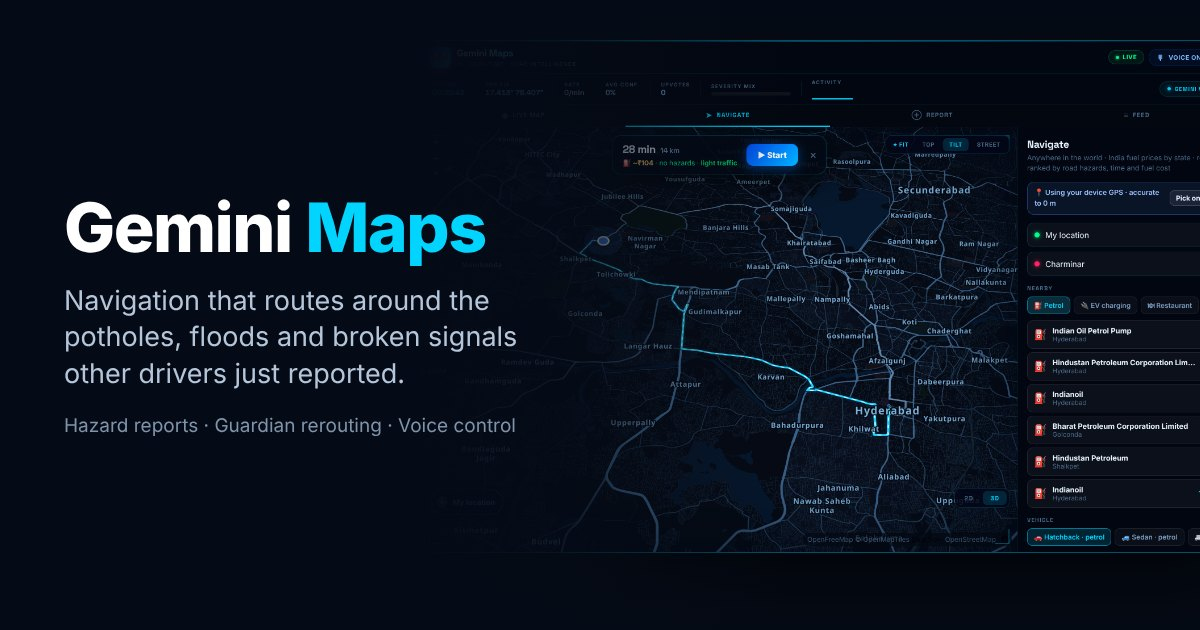
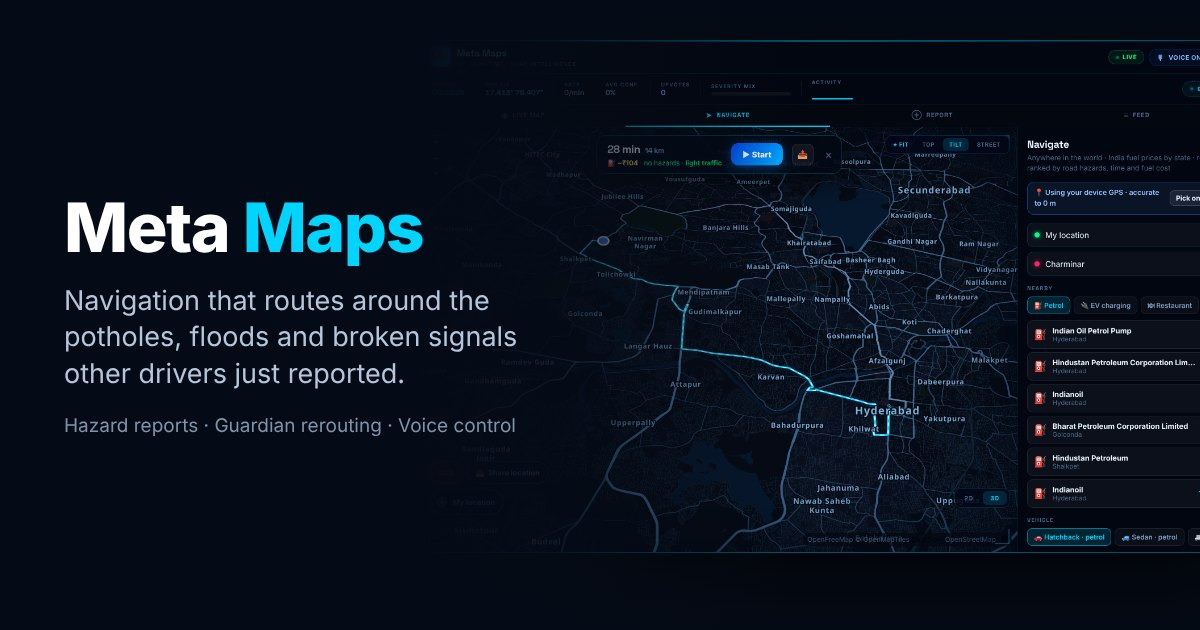
Rename the project to Meta Maps
- App name, page titles, manifest, share card, About panel, privacy policy and README.
- Site path is now /meta-maps/ (repository renamed); share links follow the site's own address.
- Route tag "Gemini pick" is now "Best pick"; Gemini remains only as the name of the fallback model.
- Independence note: not made by or endorsed by Meta Platforms, Inc.
- Backend URL stays gemini-maps-api.onrender.com (Render service addresses cannot be renamed).

Claude-Session: https://claude.ai/code/session_01KKk8jLsp7yVgJvBqSFSbTD

Changed region(s): [[0.0617, 0.3016, 0.4008, 0.4222], [0.4933, 0.2111, 0.7092, 0.2714], [0.9558, 0.1206, 1.0, 0.1508]]

diff --git a/frontend/public/privacy.html b/frontend/public/privacy.html
@@ -1,11 +1,11 @@
-<!doctype html><html lang="en"><head><meta charset="utf-8"><meta name="viewport" content="width=device-width,initial-scale=1"><title>Gemini Maps — Privacy Policy</title>
+<!doctype html><html lang="en"><head><meta charset="utf-8"><meta name="viewport" content="width=device-width,initial-scale=1"><title>Meta Maps — Privacy Policy</title>
 <style>body{font:16px/1.6 system-ui,sans-serif;max-width:720px;margin:40px auto;padding:0 18px;color:#14202b}h1{font-size:28px}h2{margin-top:28px;font-size:19px}</style></head><body>
-<h1>Gemini Maps — Privacy Policy</h1><p>Last updated: 29 October 2026</p>
-<p>Gemini Maps is a hazard-aware navigation app built for the Meta Global AI Developer Hackathon. This policy explains what it does with your data.</p>
+<h1>Meta Maps — Privacy Policy</h1><p>Last updated: 29 October 2026</p>
+<p>Meta Maps is a hazard-aware navigation app built for the Meta Global AI Developer Hackathon. It is an independent project, not made by or endorsed by Meta Platforms, Inc. This policy explains what it does with your data.</p>
 <h2>Location</h2><p>If you allow location access, your position is used on your device to show you on the map, to follow a drive, and to match your speed to the road's limit. It is not sent to our servers and not stored. To plan a route, the start and end coordinates are sent to the public OSRM routing service; place searches are sent to the Photon geocoder (Komoot). Those services receive only the coordinates or search text needed for the request.</p>
-<h2>Microphone and voice</h2><p>Voice control uses your browser's or device's speech recognition. Audio is processed by that speech service (for example Google or Apple); Gemini Maps does not record or keep audio. You can switch voice off at any time.</p>
-<h2>Camera and hazard reports</h2><p>When you report a hazard, the photo you take and its location are sent to the Gemini Maps backend. The backend sends the photo to Meta Model API (Muse Spark to classify it, SAM 3.1 to locate the hazard in it); if Meta's service is unavailable, it is sent to Google's Gemini API instead. Those providers process the photo under their own terms, and Meta may use content sent with free hackathon credits to improve its products. The hazard type, severity, description and location are then shown to other drivers; the photo itself is not stored by Gemini Maps. Do not photograph people or number plates. Reports can be removed on request.</p>
-<h2>Weather and sharing</h2><p>To check rain on your route, two points on the route (rounded to about 1 km) are sent to the Gemini Maps backend, which asks Open-Meteo or MET Norway for the forecast. When you share your location, arrival time or a place, the link is passed to the app you pick (for example WhatsApp); Gemini Maps does not keep it.</p><h2>Data kept on your device</h2><p>The app stores small preferences (chosen vehicle, a cache of state names for fuel prices, and map tiles) in your device's local storage. You can clear them by clearing site data.</p>
+<h2>Microphone and voice</h2><p>Voice control uses your browser's or device's speech recognition. Audio is processed by that speech service (for example Google or Apple); Meta Maps does not record or keep audio. You can switch voice off at any time.</p>
+<h2>Camera and hazard reports</h2><p>When you report a hazard, the photo you take and its location are sent to the Meta Maps backend. The backend sends the photo to Meta Model API (Muse Spark to classify it, SAM 3.1 to locate the hazard in it); if Meta's service is unavailable, it is sent to Google's Gemini API instead. Those providers process the photo under their own terms, and Meta may use content sent with free hackathon credits to improve its products. The hazard type, severity, description and location are then shown to other drivers; the photo itself is not stored by Meta Maps. Do not photograph people or number plates. Reports can be removed on request.</p>
+<h2>Weather and sharing</h2><p>To check rain on your route, two points on the route (rounded to about 1 km) are sent to the Meta Maps backend, which asks Open-Meteo or MET Norway for the forecast. When you share your location, arrival time or a place, the link is passed to the app you pick (for example WhatsApp); Meta Maps does not keep it.</p><h2>Data kept on your device</h2><p>The app stores small preferences (chosen vehicle, a cache of state names for fuel prices, and map tiles) in your device's local storage. You can clear them by clearing site data.</p>
 <h2>What we do not do</h2><p>We do not sell data, show ads, or build advertising profiles. We do not require an account.</p>
 <h2>Children</h2><p>The app is not directed at children under 13.</p>
 <h2>Contact</h2><p>Questions or removal requests: deekshith.k.090325@gmail.com</p>

diff --git a/frontend/index.html b/frontend/index.html
@@ -2,32 +2,32 @@
 <html lang="en">
   <head>
     <meta charset="UTF-8" />
-    <link rel="icon" type="image/svg+xml" href="/gemini-maps/favicon.svg" />
-    <link rel="apple-touch-icon" href="/gemini-maps/apple-touch-icon.png" />
-    <link rel="manifest" href="/gemini-maps/manifest.webmanifest" />
+    <link rel="icon" type="image/svg+xml" href="/meta-maps/favicon.svg" />
+    <link rel="apple-touch-icon" href="/meta-maps/apple-touch-icon.png" />
+    <link rel="manifest" href="/meta-maps/manifest.webmanifest" />
     <meta name="viewport" content="width=device-width, initial-scale=1.0, viewport-fit=cover, user-scalable=no" />
     <meta name="theme-color" content="#050b18" />
     <meta name="mobile-web-app-capable" content="yes" />
     <meta name="apple-mobile-web-app-capable" content="yes" />
-    <meta name="apple-mobile-web-app-title" content="Gemini Maps" />
+    <meta name="apple-mobile-web-app-title" content="Meta Maps" />
     <meta name="apple-mobile-web-app-status-bar-style" content="black-translucent" />
     <meta name="format-detection" content="telephone=no" />
     <meta name="description" content="Road-condition-aware navigation for India: crowdsourced hazards, vehicle-aware routing, fuel cost by state, and a Guardian agent that reroutes you mid-drive." />
-    <title>Gemini Maps — AI Road Hazard Reporter</title>
-    <link rel="canonical" href="https://vedhrishi.github.io/gemini-maps/" />
+    <title>Meta Maps — AI Road Hazard Reporter</title>
+    <link rel="canonical" href="https://vedhrishi.github.io/meta-maps/" />
     <meta property="og:type" content="website" />
-    <meta property="og:site_name" content="Gemini Maps" />
-    <meta property="og:title" content="Gemini Maps — navigation that routes around reported road hazards" />
+    <meta property="og:site_name" content="Meta Maps" />
+    <meta property="og:title" content="Meta Maps — navigation that routes around reported road hazards" />
     <meta property="og:description" content="Drivers report potholes, floods and broken signals with one photo. AI classifies them, every route avoids them, and a Guardian agent reroutes you mid-drive. Voice controlled." />
-    <meta property="og:url" content="https://vedhrishi.github.io/gemini-maps/" />
-    <meta property="og:image" content="https://vedhrishi.github.io/gemini-maps/og.jpg" />
+    <meta property="og:url" content="https://vedhrishi.github.io/meta-maps/" />
+    <meta property="og:image" content="https://vedhrishi.github.io/meta-maps/og.jpg" />
     <meta property="og:image:width" content="1200" />
     <meta property="og:image:height" content="630" />
-    <meta property="og:image:alt" content="Gemini Maps showing a route across Hyderabad and the nearest petrol pumps" />
+    <meta property="og:image:alt" content="Meta Maps showing a route across Hyderabad and the nearest petrol pumps" />
     <meta name="twitter:card" content="summary_large_image" />
-    <meta name="twitter:title" content="Gemini Maps — navigation that routes around reported road hazards" />
+    <meta name="twitter:title" content="Meta Maps — navigation that routes around reported road hazards" />
     <meta name="twitter:description" content="One photo reports a pothole. AI classifies it, every route avoids it, and a Guardian agent reroutes you mid-drive." />
-    <meta name="twitter:image" content="https://vedhrishi.github.io/gemini-maps/og.jpg" />
+    <meta name="twitter:image" content="https://vedhrishi.github.io/meta-maps/og.jpg" />
     <link rel="preconnect" href="https://fonts.googleapis.com" />
     <link rel="preconnect" href="https://fonts.gstatic.com" crossorigin />
     <link rel="preconnect" href="https://tiles.openfreemap.org" crossorigin />

diff --git a/frontend/src/components/NavPanel.tsx b/frontend/src/components/NavPanel.tsx
@@ -204,7 +204,7 @@ export function NavPanel({ nav, userPos, locStatus, onRequestLocation, onStartLi
         }}>
           📍 {locStatus === 'denied'
             ? 'Location is blocked. Allow it in your browser settings, then tap here.'
-            : locStatus === 'locating' ? 'Finding your location…' : 'Turn on location so Gemini Maps can navigate from where you are'}
+            : locStatus === 'locating' ? 'Finding your location…' : 'Turn on location so Meta Maps can navigate from where you are'}
         </button>
       )}
 
@@ -323,7 +323,7 @@ export function NavPanel({ nav, userPos, locStatus, onRequestLocation, onStartLi
             background: 'rgba(0,212,255,.05)', border: '1px solid rgba(0,212,255,.12)', color: 'var(--text2)',
           }}>
             Every route is checked against crowd-reported hazards. If a slightly longer road
-            avoids a critical pothole or a flooded stretch, <b style={{ color: 'var(--accent)' }}>Gemini picks it</b>.
+            avoids a critical pothole or a flooded stretch, <b style={{ color: 'var(--accent)' }}>Meta Maps picks it</b>.
           </div>
         </div>
       )}
@@ -372,8 +372,8 @@ export function NavPanel({ nav, userPos, locStatus, onRequestLocation, onStartLi
                       <span key={t} style={{
                         fontSize: 10, fontWeight: 800, letterSpacing: '.06em', textTransform: 'uppercase',
                         padding: '2px 8px', borderRadius: 6,
-                        background: t === 'Gemini pick' ? 'rgba(0,212,255,.16)' : 'rgba(255,255,255,.07)',
-                        color: t === 'Gemini pick' ? 'var(--accent)' : 'var(--text2)',
+                        background: t === 'Best pick' ? 'rgba(0,212,255,.16)' : 'rgba(255,255,255,.07)',
+                        color: t === 'Best pick' ? 'var(--accent)' : 'var(--text2)',
                       }}>{t}</span>
                     ))}
                   </div>

diff --git a/frontend/src/hooks/useNavigation.ts b/frontend/src/hooks/useNavigation.ts
@@ -124,10 +124,10 @@ export function useNavigation({ reports, toast, speak }: Deps) {
     if (base.length > 1 && Math.abs(base[cheapest].fuel.cost - Math.max(...base.map(o => o.fuel.cost))) > 5) {
       base[cheapest].tags.push('Lowest fuel')
     }
-    // Gemini pick: every hazard point costs two minutes
+    // Best pick: every hazard point costs two minutes
     const pick = base.reduce(
       (b, o, i) => (o.route.duration + o.score * 120 < base[b].route.duration + base[b].score * 120 ? i : b), 0)
-    base[pick].tags.unshift('Gemini pick')
+    base[pick].tags.unshift('Best pick')
     return base
   }, [routes, routeStates, reports, vehicle, vehicleId])
 
@@ -148,7 +148,7 @@ export function useNavigation({ reports, toast, speak }: Deps) {
       setRoutes(rs)
       setPlanId(token)
       setRouteStates(rs.map(() => null))
-      // Gemini's pick becomes the default selection once hazards are known
+      // The best pick becomes the default selection once hazards are known
       setStatus('ready')
       // State lookups for fuel pricing, one route at a time (gentle on the public geocoder)
       for (let i = 0; i < rs.length; i++) {
@@ -169,7 +169,7 @@ export function useNavigation({ reports, toast, speak }: Deps) {
   const userChose = useRef(false)
   useEffect(() => {
     if (status !== 'ready' || userChose.current || options.length === 0) return
-    const pickIdx = options.findIndex(o => o.tags.includes('Gemini pick'))
+    const pickIdx = options.findIndex(o => o.tags.includes('Best pick'))
     if (pickIdx >= 0 && pickIdx !== selected) setSelected(pickIdx)
   }, [options, status, selected])
   useEffect(() => { if (status === 'planning') userChose.current = false }, [status])

diff --git a/frontend/src/components/AboutSheet.tsx b/frontend/src/components/AboutSheet.tsx
@@ -15,7 +15,7 @@ type Health = {
   supabase?: boolean
 }
 
-const REPO = 'https://github.com/Vedhrishi/gemini-maps'
+const REPO = 'https://github.com/Vedhrishi/meta-maps'
 
 const SHORTCUTS: [string, string][] = [
   ['R', 'Report a hazard'],
@@ -97,7 +97,7 @@ export function AboutSheet({ onClose, isDesktop }: { onClose: () => void; isDesk
         <div style={{ display: 'flex', alignItems: 'flex-start', gap: 12 }}>
           <div style={{ flex: 1 }}>
             <h2 id="about-title" style={{ margin: 0, fontFamily: 'var(--font2)', fontSize: 19, fontWeight: 700 }}>
-              Gemini Maps
+              Meta Maps
             </h2>
             <p style={{ margin: '6px 0 0', fontSize: 13, color: 'var(--text2)', lineHeight: 1.5 }}>
               Navigation that knows about the pothole, the flooded underpass and the broken signal,
@@ -185,7 +185,7 @@ export function AboutSheet({ onClose, isDesktop }: { onClose: () => void; isDesk
           borderTop: '1px solid rgba(255,255,255,0.07)', paddingTop: 16, fontSize: 12.5,
         }}>
           <span style={{ color: 'var(--text3)', flexBasis: '100%' }}>
-            Built for the Meta Global AI Developer Hackathon, Oct 26 to Nov 4, 2026.
+            Built for the Meta Global AI Developer Hackathon, Oct 26 to Nov 4, 2026. An independent project, not made by or endorsed by Meta.
           </span>
           <a href={REPO} target="_blank" rel="noopener" style={{ color: 'var(--accent)', fontWeight: 600 }}>Source code on GitHub</a>
           <a href={`${import.meta.env.BASE_URL}privacy.html`} target="_blank" rel="noopener" style={{ color: 'var(--text2)' }}>Privacy</a>

diff --git a/frontend/src/App.tsx b/frontend/src/App.tsx
@@ -617,7 +617,7 @@ export default function App() {
               background: 'linear-gradient(90deg, #fff 0%, #00d4ff 60%, #0096ff 100%)',
               WebkitBackgroundClip: 'text', WebkitTextFillColor: 'transparent',
               whiteSpace: 'nowrap',
-            }}>Gemini Maps</div>
+            }}>Meta Maps</div>
             {isDesktop && (
               <div style={{ fontSize: 9.5, color: 'var(--text3)', letterSpacing: '0.12em', textTransform: 'uppercase' }}>
                 AI · Real-Time · Road Intelligence
@@ -677,7 +677,7 @@ export default function App() {
           <button
             onClick={() => setShowShortcuts(s => !s)}
             title="About, voice commands and shortcuts (?)"
-            aria-label="About Gemini Maps"
+            aria-label="About Meta Maps"
             style={{
               background: 'rgba(255,255,255,0.04)', border: '1px solid rgba(255,255,255,0.09)',
               color: 'var(--text3)', width: isDesktop ? 28 : 36, height: isDesktop ? 28 : 36, borderRadius: 8,

diff --git a/frontend/src/lib/share.ts b/frontend/src/lib/share.ts
@@ -1,12 +1,14 @@
 /**
- * Sharing: a place or a trip as a link that opens Gemini Maps with directions to it.
+ * Sharing: a place or a trip as a link that opens Meta Maps with directions to it.
  * Uses the phone's share sheet when there is one (WhatsApp, SMS, Telegram...),
  * otherwise opens WhatsApp Web, otherwise copies to the clipboard.
  */
 
 export type ShareResult = 'shared' | 'whatsapp' | 'copied' | 'cancelled' | 'failed'
 
-const APP_URL = 'https://vedhrishi.github.io/gemini-maps/'
+const APP_URL = typeof location !== 'undefined' && location.hostname !== 'localhost' && location.hostname !== '127.0.0.1'
+  ? location.origin + import.meta.env.BASE_URL
+  : 'https://vedhrishi.github.io/meta-maps/'
 
 /** A link that opens the app with this place as the destination. */
 export function placeLink(lat: number, lng: number, label?: string): string {

diff --git a/frontend/src/components/InstallHint.tsx b/frontend/src/components/InstallHint.tsx
@@ -23,9 +23,9 @@ export function InstallHint() {
       background: 'rgba(3,9,20,.97)', border: '1px solid rgba(0,212,255,.3)', borderRadius: 16,
       padding: '12px 14px', display: 'flex', gap: 12, alignItems: 'center', color: '#e8f4ff', fontSize: 13,
     }}>
-      <img src="/gemini-maps/icon-192.png" width={40} height={40} alt="" style={{ borderRadius: 10 }} />
+      <img src={`${import.meta.env.BASE_URL}icon-192.png`} width={40} height={40} alt="" style={{ borderRadius: 10 }} />
       <div style={{ flex: 1, lineHeight: 1.35 }}>
-        <b>Install Gemini Maps</b><br />
+        <b>Install Meta Maps</b><br />
         Tap the Share button, then “Add to Home Screen” for a full-screen app.
       </div>
       <button onClick={close} style={{ background: 'none', border: 0, color: '#00d4ff', fontWeight: 700, fontSize: 14 }}>Got it</button>

diff --git a/frontend/src/components/BootSequence.tsx b/frontend/src/components/BootSequence.tsx
@@ -80,7 +80,7 @@ export function BootSequence({ onDone }: { onDone: () => void }) {
           fontWeight: 800, fontSize: 34, letterSpacing: '-0.8px',
           background: 'linear-gradient(90deg, #ffffff, #00d4ff)',
           WebkitBackgroundClip: 'text', WebkitTextFillColor: 'transparent',
-        }}>Gemini Maps</div>
+        }}>Meta Maps</div>
         <div style={{
           fontSize: 10.5, color: '#4a6a8a', letterSpacing: '0.3em',
           textTransform: 'uppercase', marginTop: 6,

diff --git a/frontend/vite.config.ts b/frontend/vite.config.ts
@@ -3,7 +3,7 @@ import react from '@vitejs/plugin-react'
 
 export default defineConfig({
   plugins: [react()],
-  base: '/gemini-maps/',
+  base: '/meta-maps/',
   build: {
     outDir: 'dist',
     sourcemap: false,

diff --git a/backend/app.py b/backend/app.py
@@ -119,7 +119,7 @@ async def lifespan(app: FastAPI):
         print(f"[seed] {len(_reports_store)} sample reports")
     yield
 
-app = FastAPI(title="Gemini Maps API", version="2.0.0", lifespan=lifespan)
+app = FastAPI(title="Meta Maps API", version="2.0.0", lifespan=lifespan)
 
 _origins = [o.strip() for o in os.getenv(
     "ALLOWED_ORIGINS",
@@ -420,7 +420,7 @@ async def weather(request: Request, points: str):
             try:
                 r = await client.get("https://api.met.no/weatherapi/locationforecast/2.0/complete",
                                      params={"lat": la, "lon": ln},
-                                     headers={"User-Agent": "GeminiMaps/2.0 github.com/Vedhrishi/gemini-maps"})
+                                     headers={"User-Agent": "MetaMaps/2.0 github.com/Vedhrishi/meta-maps"})
                 hours = parse_met_no(r.json()) if r.status_code == 200 else None
             except Exception:
                 hours = None

diff --git a/playstore/PUBLISH.md b/playstore/PUBLISH.md
@@ -1,15 +1,15 @@
-# Publish Gemini Maps on Google Play (one-time fee US$25)
+# Publish Meta Maps on Google Play (one-time fee US$25)
 
-Your app is a PWA, so the Play Store build is a Trusted Web Activity (TWA): a thin Android shell around https://vedhrishi.github.io/gemini-maps/.
+Your app is a PWA, so the Play Store build is a Trusted Web Activity (TWA): a thin Android shell around https://vedhrishi.github.io/meta-maps/.
 
 ## 0. Before anything: deploy the website
 `cd /d R:\gemini-maps\gemini-maps\frontend` then `npm run deploy`. The Play app loads this live site, so the site must have the new manifest, icons and privacy.html.
 
 ## 1. Build the .aab (easiest: no Android Studio)
-1. Open https://www.pwabuilder.com, enter `https://vedhrishi.github.io/gemini-maps/`, press Start.
+1. Open https://www.pwabuilder.com, enter `https://vedhrishi.github.io/meta-maps/`, press Start.
 2. Package for stores → Android → use the values in `twa-manifest.json` (package id `io.github.vedhrishi.geminimaps`, enable location delegation).
 3. Let PWABuilder generate a signing key. Download the zip: it contains the `.aab`, `signing.keystore` and its password. **Keep the keystore + password safe forever** (losing it means you can never update the app).
-   Alternative (CLI): `npm i -g @bubblewrap/cli`, `bubblewrap init --manifest=https://vedhrishi.github.io/gemini-maps/manifest.webmanifest`, `bubblewrap build`.
+   Alternative (CLI): `npm i -g @bubblewrap/cli`, `bubblewrap init --manifest=https://vedhrishi.github.io/meta-maps/manifest.webmanifest`, `bubblewrap build`.
 
 ## 2. Play Console
 1. Create a developer account at https://play.google.com/console (US$25 one-time, ID verification).
@@ -20,9 +20,9 @@ Your app is a PWA, so the Play Store build is a Trusted Web Activity (TWA): a th
    New personal accounts must run a **closed test with 12+ testers for 14 days** before Production is allowed — start this early.
 
 ## 3. Remove the browser address bar (Digital Asset Links)
-GitHub Pages serves this app under `/gemini-maps/`, but Android verifies the domain root. Do ONE of:
+GitHub Pages serves this app under `/meta-maps/`, but Android verifies the domain root. Do ONE of:
 - Create a repo named `vedhrishi.github.io` and publish `/.well-known/assetlinks.json` there (copy `assetlinks.template.json`, paste the SHA-256 from Play Console → Setup → App signing → "App signing key certificate").
-- Or use a custom domain (e.g. gemini-maps.app) pointing at the Pages site and put `.well-known/assetlinks.json` in `frontend/public/.well-known/`.
+- Or use a custom domain (e.g. meta-maps.app) pointing at the Pages site and put `.well-known/assetlinks.json` in `frontend/public/.well-known/`.
 Until verified the app still works but shows a thin URL bar (Chrome Custom Tab fallback).
 
 ## 4. Backend note
